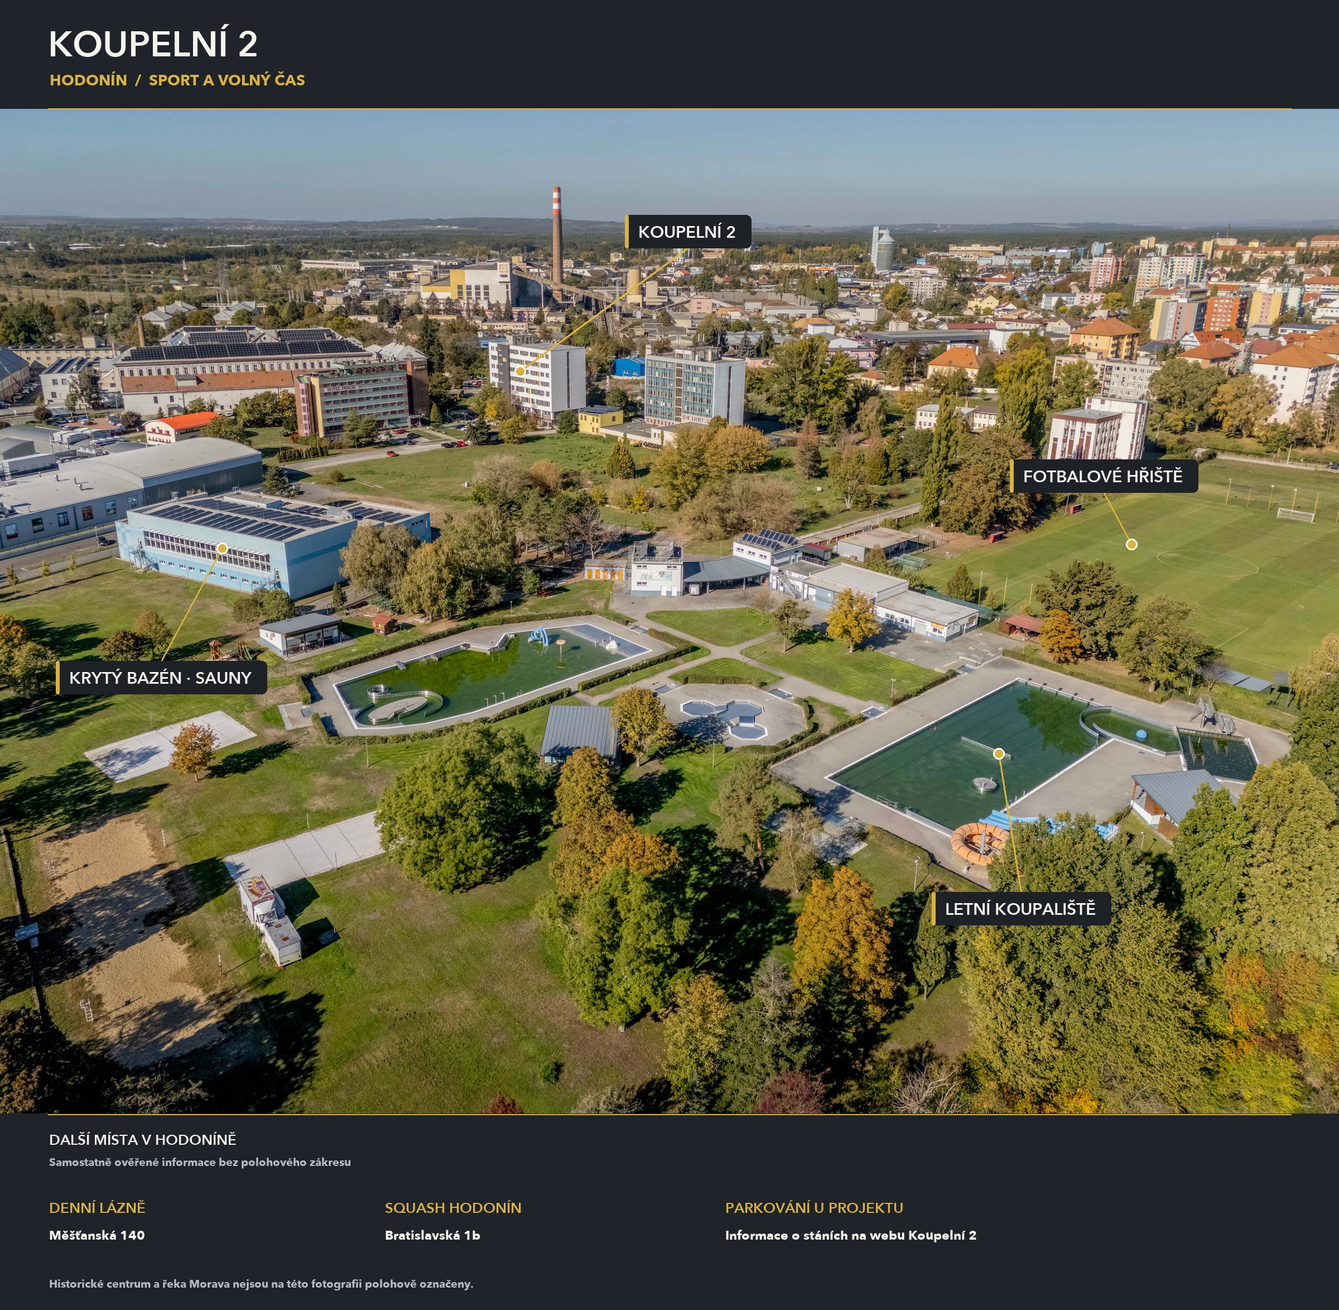
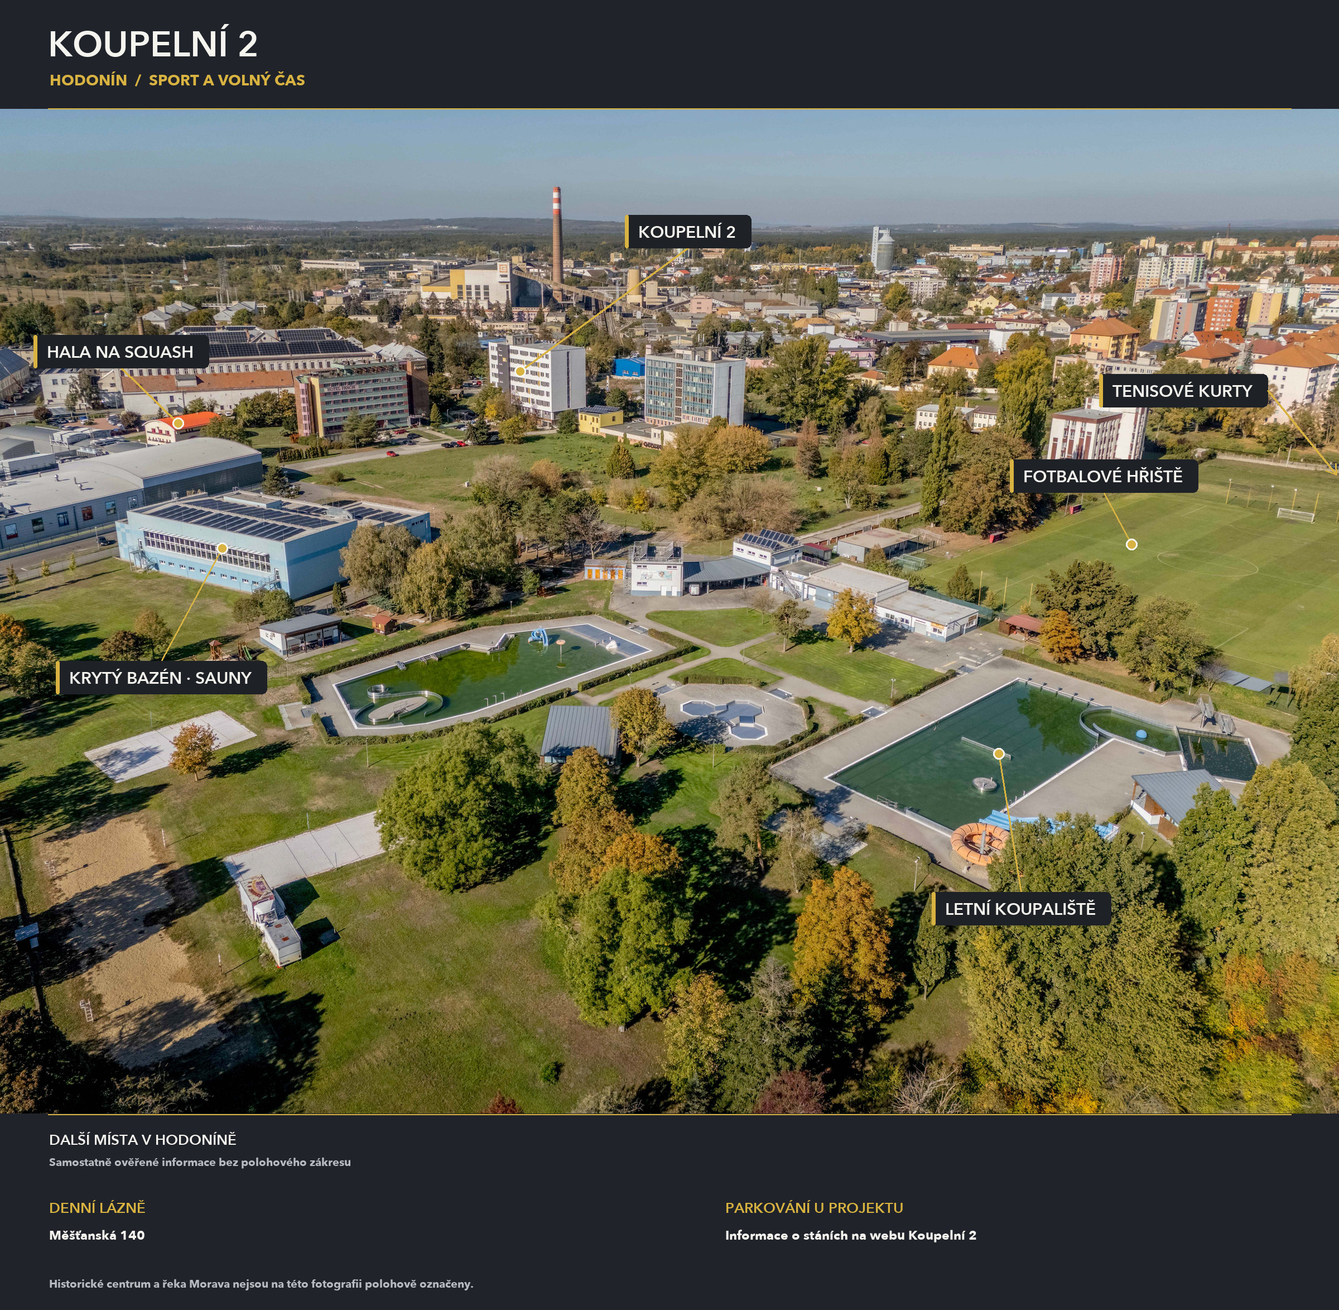
Doplň popisky sportovišť a oprav stavové odkazy v ceníku

diff --git a/predani/web/_cms/site-runtime.js b/predani/web/_cms/site-runtime.js
@@ -40,6 +40,18 @@ document.addEventListener('click',e=>{const a=e.target.closest(imageSelector);if
 })();
 (()=>{
 const base=document.querySelector('meta[name="cms-base"]')?.content||'/web/';
+// Historical WordPress entries sometimes linked to the homepage or a post ID.
+for(const row of document.querySelectorAll('table.cenik tr')){
+ const title=row.cells[0]?.textContent.trim();
+ const link=row.querySelector('td a[href]');
+ if(!link)continue;
+ const url=new URL(link.href);
+ if(!url.searchParams.has('post_type')&&url.pathname!==base&&url.pathname!=='/')continue;
+ const groups=[[/^Sklepní kóje na ([1-7])NP$/,'sk'],[/^Garážové stání ([1-8])$/,'gs'],[/^Stání pro motocykl ([12])$/,'gm'],[/^Stání v hromadné garáži ([1-4])$/,'gh']];
+ const group=groups.find(([pattern])=>pattern.test(title));
+ const slug=group?group[1]+'_0'+title.match(group[0])[1]:({'Kom.j. č. 08':'np_01_09','Kom.j. č. 12':'np_02_17'})[title];
+ if(slug)link.href=base+'flats/'+slug+'/';
+}
 function floor(){const n=location.hash.match(/^#df(\d+)$/)?.[1];if(!n)return;document.querySelectorAll('.floor-blocks .floor').forEach(e=>e.classList.toggle('floor-active',e.dataset.floor===n));document.querySelectorAll('[data-floorid]').forEach(e=>e.classList.toggle('button--active',e.dataset.floorid===n));document.querySelectorAll('.floor-loading').forEach(e=>e.classList.remove('floor-loading'));}
 window.addEventListener('hashchange',floor);floor();
 document.querySelectorAll('[data-href]').forEach(e=>{const raw=e.dataset.href;if(!raw?.startsWith('/pudorysy/'))return;e.setAttribute('tabindex','0');e.setAttribute('role','link');e.setAttribute('aria-label','Zobrazit podlaží '+(e.dataset.np||''));const go=()=>location.assign(base+raw.slice(1));e.onclick=go;e.onkeydown=ev=>{if(ev.key==='Enter')go();};e.onmouseenter=()=>{const box=document.querySelector('.info-floor');if(box)box.style.opacity='1';for(const [key,v] of [['podlazi',e.dataset.np],['free',e.dataset.free],['total',e.dataset.total]]){const el=document.querySelector('[data-name="'+key+'"]');if(el)el.textContent=v||'';}};});
@@ -59,8 +71,11 @@ body.k2-finished #k2-main-content .k2-plan-legend span:before{width:16px;height:
 body.k2-finished #k2-main-content .k2-plan-legend span:nth-child(2):before{background:#db8b4b;border-color:#8c4e1b}
 body.k2-finished #k2-main-content .k2-plan-legend span:nth-child(3):before{background:#46616e;border-color:#294550}
 body .stav-volne,body.k2-finished #k2-main-content .k2-unit-state[data-status="Na prodej"]{background:#f3ce43!important;color:#172d36!important;border:1px solid #9f8123!important}
-body .stav-prodano,body.k2-finished #k2-main-content .k2-unit-state[data-status="Prodáno"]{background:#46616e!important;color:#fff!important;border:1px solid #294550!important}
+body .stav-nedostupne,body .stav-prodano,body.k2-finished #k2-main-content .k2-unit-state[data-status="Prodáno"]{background:#46616e!important;color:#fff!important;border:1px solid #294550!important}
 body .stav-rezervovano,body.k2-finished #k2-main-content .k2-unit-state[data-status="Rezervováno"]{background:#db8b4b!important;color:#231b15!important;border:1px solid #8c4e1b!important}
+body.k2-finished #k2-main-content table.cenik td :is(.stav-volne,.stav-rezervovano,.stav-prodano):has(>a.button){display:inline-flex;padding:0!important}
+body.k2-finished #k2-main-content table.cenik td :is(.stav-volne,.stav-rezervovano,.stav-prodano)>a.button{background:inherit!important;color:inherit!important;border:0!important;box-shadow:none!important}
+body.k2-finished #k2-main-content table.cenik td :is(.stav-volne,.stav-rezervovano,.stav-prodano)>a.button:focus-visible{outline:3px solid #17688c;outline-offset:3px}
 body.k2-finished #k2-main-content .k2-floor-unit-list a[data-unit-status="Na prodej"]{border-left:6px solid #f3ce43}
 body.k2-finished #k2-main-content .k2-floor-unit-list a[data-unit-status="Prodáno"]{border-left:6px solid #46616e}
 body.k2-finished #k2-main-content .k2-floor-unit-list a[data-unit-status="Rezervováno"]{border-left:6px solid #db8b4b}
@@ -73,12 +88,13 @@ body.k2-finished #k2-main-content .k2-floor-unit-list a[data-unit-status="Rezerv
  const endpoint=document.querySelector('meta[name="koupelni-service"]')?.content;if(!endpoint)return;
  const base=document.querySelector('meta[name="cms-base"]')?.content||'/web/';
  const slug=u=>{try{return new URL(u,location.href).pathname.replace(base,'').replace(/^\/+|\/+$/g,'');}catch{return '';}};
- const styleStatus=(e,status)=>{e.textContent=status;e.classList.remove('stav-volne','stav-rezervovano','stav-prodano');e.classList.add(status==='Prodáno'?'stav-prodano':status==='Rezervováno'?'stav-rezervovano':'stav-volne');};
+ const styleStatus=(e,status)=>{const link=e.querySelector('a');(link||e).textContent=status;e.classList.remove('stav-volne','stav-rezervovano','stav-prodano','stav-nedostupne');const state=status.toLocaleLowerCase('cs');e.classList.add(state==='prodáno'?'stav-prodano':state==='dočasně nedostupné'?'stav-nedostupne':state==='rezervováno'?'stav-rezervovano':'stav-volne');};
  document.querySelectorAll('.k2-mortgage form').forEach(f=>f.addEventListener('input',e=>{if(e.isTrusted)f.dataset.userEdited='true';}));
  async function refresh(){try{
-  const r=await fetch(endpoint+'/availability',{cache:'no-store',credentials:'omit',signal:AbortSignal.timeout(10000)});if(!r.ok)return;const {units}=await r.json();if(!Array.isArray(units))return;const map=new Map(units.map(u=>[u.slug,u]));
-  document.querySelectorAll('table.cenik').forEach(table=>{const heads=[...table.querySelectorAll('th')].map(e=>e.textContent.trim()),price=heads.findIndex(t=>t.startsWith('Cena')),status=heads.findIndex(t=>t==='Stav');for(const row of table.querySelectorAll('tr')){const a=row.querySelector('a[href*="/flats/"]'),u=a&&map.get(slug(a.href));if(!u)continue;if(price>=0&&row.cells[price])row.cells[price].textContent=u.price;if(status>=0&&row.cells[status])styleStatus(row.cells[status].querySelector('[class*="stav-"]')||row.cells[status],u.status);}});
-  const current=map.get(slug(location.href));if(current){document.querySelectorAll('.k2-unit-state').forEach(e=>{e.textContent=current.status;e.dataset.status=current.status;});for(const row of document.querySelectorAll('.single-flat tr')){const label=row.cells[0]?.textContent.trim();if(label==='Cena'&&row.cells[1]){const cell=row.cells[1],price=cell.querySelector('span:not(.dph)');if(price)price.textContent=current.price;else{const vat=cell.querySelector('.dph');cell.textContent=current.price;if(vat)cell.append(document.createTextNode(' '),vat);}}if(label==='Stav'&&row.cells[1])styleStatus(row.cells[1].querySelector('[class*="stav-"]')||row.cells[1],current.status);}document.querySelectorAll('.k2-mortgage form').forEach(f=>{if(f.dataset.userEdited)return;const match=current.price.match(/([\d.,\s\u00a0]+)\s*Kč/),amount=/Kč\s*\/\s*m[²2]/i.test(current.price)?0:match?Number(match[1].replace(/[.\s\u00a0]/g,'').replace(',','.')):0;if(amount){f.elements.price.value=amount;f.elements.own.value=Math.round(amount*.2);f.dispatchEvent(new Event('input',{bubbles:true}));}});}
+  const r=await fetch(endpoint+'/availability',{cache:'no-store',credentials:'omit',signal:AbortSignal.timeout(10000)});if(!r.ok)return;const {units,accessories}=await r.json();if(!Array.isArray(units))return;const map=new Map(units.map(u=>[u.slug,u]));
+  document.querySelectorAll('table.cenik').forEach(table=>{const heads=[...table.querySelectorAll('th')].map(e=>e.textContent.trim()),price=heads.findIndex(t=>t.startsWith('Cena')),status=heads.findIndex(t=>t==='Stav'||t==='Status');for(const row of table.querySelectorAll('tr')){const a=row.querySelector('a[href*="/flats/"]'),u=a&&map.get(slug(a.href));if(!u||u.slug.startsWith('flats/sk_')||u.slug==='flats/1462-copy-copy')continue;if(price>=0&&row.cells[price])row.cells[price].textContent=u.price;if(status>=0&&row.cells[status])styleStatus(row.cells[status].querySelector('[class*="stav-"]')||row.cells[status],u.status);}});
+  if(Array.isArray(accessories)){const byCode=new Map(accessories.map(a=>[a.code,a]));for(const row of document.querySelectorAll('tr')){const code=row.cells?.[0]?.textContent.trim(),item=byCode.get(code);if(!item||row.cells.length!==4)continue;const table=row.closest('table');if(!table||table.classList.contains('cenik'))continue;const heads=[...table.querySelectorAll('th')].map(e=>e.textContent.trim());if(!heads.some(h=>h==='Sklepní kóje'||h==='Parkovací místo'))continue;const status=row.cells[2].querySelector('[class*="stav-"]')||row.cells[2].querySelector('span.mce-content-body')||row.cells[2];styleStatus(status,item.status);const price=row.cells[3].querySelector('span.mce-content-body')||row.cells[3];price.textContent=item.price;}}
+  const current=map.get(slug(location.href));if(current&&!current.slug.startsWith('flats/sk_')&&current.slug!=='flats/1462-copy-copy'){document.querySelectorAll('.k2-unit-state').forEach(e=>{e.textContent=current.status;e.dataset.status=current.status;});for(const row of document.querySelectorAll('.single-flat tr')){const label=row.cells[0]?.textContent.trim();if(label==='Cena'&&row.cells[1]){const cell=row.cells[1],price=cell.querySelector('span:not(.dph)');if(price)price.textContent=current.price;else{const vat=cell.querySelector('.dph');cell.textContent=current.price;if(vat)cell.append(document.createTextNode(' '),vat);}}if(label==='Stav'&&row.cells[1])styleStatus(row.cells[1].querySelector('[class*="stav-"]')||row.cells[1],current.status);}document.querySelectorAll('.k2-mortgage form').forEach(f=>{if(f.dataset.userEdited)return;const match=current.price.match(/([\d.,\s\u00a0]+)\s*Kč/),amount=/Kč\s*\/\s*m[²2]/i.test(current.price)?0:match?Number(match[1].replace(/[.\s\u00a0]/g,'').replace(',','.')):0;if(amount){f.elements.price.value=amount;f.elements.own.value=Math.round(amount*.2);f.dispatchEvent(new Event('input',{bubbles:true}));}});}
   const floor=document.querySelector('#cms-floor-data');if(floor){const list=JSON.parse(floor.textContent);for(const u of list){const fresh=map.get(slug(u.url));if(fresh)u.status=fresh.status;}floor.textContent=JSON.stringify(list);document.dispatchEvent(new Event('koupelni:availability'));}
   document.querySelectorAll('.k2-unit-filters select').forEach(s=>s.dispatchEvent(new Event('change')));
  }catch{/* Existing published content remains readable. The seller confirms availability. */}}

diff --git a/lokalita.html b/lokalita.html
@@ -1,2 +1,2 @@
 <!DOCTYPE html>
-<html lang="cs"><head><meta charset="utf-8"/><meta content="width=device-width, initial-scale=1" name="viewport"/><meta content="noindex,nofollow" name="robots"/><title>Lokalita | Koupelní 2 — návrh webu</title><meta content="Návrh aktualizace webu Koupelní 2 v Hodoníně. " name="description"/><link href="assets/site.css?v=20261025-2" rel="stylesheet"/><link href="assets/composition.css?v=20261026-4" rel="stylesheet"/><link href="assets/design.css?v=20261026-fd-final" rel="stylesheet"/></head><body><a class="skip" href="#main">Přejít na obsah</a><header class="header"><a aria-label="Koupelní 2 — úvod" class="brand" href="index.html"><span class="brand-text">KOUPELNÍ <b>2</b><small>HODONÍN</small></span></a><button aria-controls="nav" aria-expanded="false" class="menu-toggle">Menu <span>☰</span></button><nav aria-label="Hlavní navigace" class="nav" id="nav"><a class="" href="index.html">Úvod</a><a class="" href="projekt.html">O projektu</a><a class="" href="jednotky.html">Jednotky</a><a class="" href="galerie.html">Galerie</a><a aria-current="page" class="current" href="lokalita.html">Lokalita</a><a class="" href="standardy.html">Standardy</a><a class="" href="parkovani.html">Parkování</a><a class="" href="faq.html">Otázky</a><a class="" href="kontakt.html">Kontakt</a></nav><a class="header-contact" href="tel:+420720956703">+420 720 956 703 <span>↗</span></a></header><main id="main"><section class="page-top page-top-photo"><div class="container"><p class="eyebrow">LOKALITA</p><h1>Hodonín nablízku.</h1><p>Městské služby, pohyb a sport v okolí Koupelní ulice.</p></div><figure class="page-top-image"><img alt="Skutečný letecký pohled na okolí domu" fetchpriority="high" height="1650" src="assets/img/DJI_20261016113208_0099_D-HDR.jpg?v=20261026-fd-final" width="2200"/><figcaption>Skutečná fotografie · říjen 2026</figcaption></figure></section><section class="section"><div class="container"><p class="eyebrow">OVĚŘENÉ BODY</p><h2>Okolí na jednom snímku</h2><div class="locality-overview"><div><p class="lead">Dům Koupelní 2, krytý bazén se saunami, letní koupaliště i fotbalové hřiště. Prohlédněte si okolí ze skutečného leteckého záběru a najděte si svá místa pro sport i odpočinek.</p><p>Centrum Hodonína, lázně a řeka Morava patří k širšímu kontextu města. Pro orientaci doporučujeme oficiální mapu a osobní návštěvu.</p><div class="actions"><a class="button" href="https://mapy.cz/zakladni?q=Koupelní%202%2C%20Hodonín">Otevřít mapu <span aria-hidden="true">↗</span></a><a class="button button-light" href="kontakt.html">Kontakt na prodejce <span aria-hidden="true">↗</span></a></div></div><figure class="poi-overview"><a href="assets/img/lokalita_poi.jpg?v=20261026-foto5-lokalni" rel="noopener" target="_blank"><img alt="Celý letecký přehled: Koupelní 2, krytý bazén se saunami, fotbalové hřiště a letní koupaliště" height="1760" loading="lazy" src="assets/img/lokalita_poi.jpg?v=20261026-fd-final" width="1800"/></a><figcaption>Celý snímek včetně všech popisků. Kliknutím otevřete větší zobrazení.</figcaption></figure></div></div></section></main><footer class="footer"><div class="container footer-grid"><div><div class="footer-brand">KOUPELNÍ <em>2</em></div><p>Ubytovací a komerční jednotky<br/>v Hodoníně.</p></div><div><strong>Prozkoumat</strong><a href="jednotky.html">Jednotky</a><a href="galerie.html">Galerie</a><a href="lokalita.html">Lokalita</a></div><div><strong>Kontakt</strong><a href="tel:+420720956703">+420 720 956 703</a><a href="mailto:hazukova@hireal.cz">hazukova@hireal.cz</a><span>Ing. Jarmila Hazuková · HiREAL</span></div><div><strong>Informace</strong><a href="https://koupelni.hireal.cz/" rel="noopener" target="_blank">Aktuální oficiální web ↗</a><a href="navrh.html">O tomto návrhu</a><span>Obsah nabídky ověřte u prodejce.</span></div></div><div class="footer-bottom container"><span>© Koupelní 2 · návrh aktualizace</span><span>Fotografie skutečného stavu, pokud není uvedeno jinak.</span></div></footer><div class="proposal-badge">Návrh aktualizace webu · k připomínkám</div><script defer="" src="assets/site.js?v=20261026-design4b"></script></body></html>
+<html lang="cs"><head><meta charset="utf-8"/><meta content="width=device-width, initial-scale=1" name="viewport"/><meta content="noindex,nofollow" name="robots"/><title>Lokalita | Koupelní 2 — návrh webu</title><meta content="Návrh aktualizace webu Koupelní 2 v Hodoníně. " name="description"/><link href="assets/site.css?v=20261025-2" rel="stylesheet"/><link href="assets/composition.css?v=20261026-4" rel="stylesheet"/><link href="assets/design.css?v=20261026-fd-final" rel="stylesheet"/></head><body><a class="skip" href="#main">Přejít na obsah</a><header class="header"><a aria-label="Koupelní 2 — úvod" class="brand" href="index.html"><span class="brand-text">KOUPELNÍ <b>2</b><small>HODONÍN</small></span></a><button aria-controls="nav" aria-expanded="false" class="menu-toggle">Menu <span>☰</span></button><nav aria-label="Hlavní navigace" class="nav" id="nav"><a class="" href="index.html">Úvod</a><a class="" href="projekt.html">O projektu</a><a class="" href="jednotky.html">Jednotky</a><a class="" href="galerie.html">Galerie</a><a aria-current="page" class="current" href="lokalita.html">Lokalita</a><a class="" href="standardy.html">Standardy</a><a class="" href="parkovani.html">Parkování</a><a class="" href="faq.html">Otázky</a><a class="" href="kontakt.html">Kontakt</a></nav><a class="header-contact" href="tel:+420720956703">+420 720 956 703 <span>↗</span></a></header><main id="main"><section class="page-top page-top-photo"><div class="container"><p class="eyebrow">LOKALITA</p><h1>Hodonín nablízku.</h1><p>Městské služby, pohyb a sport v okolí Koupelní ulice.</p></div><figure class="page-top-image"><img alt="Skutečný letecký pohled na okolí domu" fetchpriority="high" height="1650" src="assets/img/DJI_20261016113208_0099_D-HDR.jpg?v=20261026-fd-final" width="2200"/><figcaption>Skutečná fotografie · říjen 2026</figcaption></figure></section><section class="section"><div class="container"><p class="eyebrow">OVĚŘENÉ BODY</p><h2>Okolí na jednom snímku</h2><div class="locality-overview"><div><p class="lead">Dům Koupelní 2, hala na squash, krytý bazén se saunami, letní koupaliště i fotbalové hřiště. Tenisové kurty ukazuje směrovka k pravému okraji snímku. Prohlédněte si okolí ze skutečného leteckého záběru a najděte si svá místa pro sport i odpočinek.</p><p>Centrum Hodonína, lázně a řeka Morava patří k širšímu kontextu města. Pro orientaci doporučujeme oficiální mapu a osobní návštěvu.</p><div class="actions"><a class="button" href="https://mapy.cz/zakladni?q=Koupelní%202%2C%20Hodonín">Otevřít mapu <span aria-hidden="true">↗</span></a><a class="button button-light" href="kontakt.html">Kontakt na prodejce <span aria-hidden="true">↗</span></a></div></div><figure class="poi-overview"><a href="assets/img/lokalita_poi-20261106.jpg" rel="noopener" target="_blank"><img alt="Celý letecký přehled: Koupelní 2, squashová hala, krytý bazén se saunami, fotbalové hřiště, letní koupaliště a směr k tenisovým kurtům" height="2151" loading="lazy" src="assets/img/lokalita_poi-20261106.jpg" width="2200"/></a><figcaption>Celý snímek včetně všech popisků. Kliknutím otevřete větší zobrazení.</figcaption></figure></div></div></section></main><footer class="footer"><div class="container footer-grid"><div><div class="footer-brand">KOUPELNÍ <em>2</em></div><p>Ubytovací a komerční jednotky<br/>v Hodoníně.</p></div><div><strong>Prozkoumat</strong><a href="jednotky.html">Jednotky</a><a href="galerie.html">Galerie</a><a href="lokalita.html">Lokalita</a></div><div><strong>Kontakt</strong><a href="tel:+420720956703">+420 720 956 703</a><a href="mailto:hazukova@hireal.cz">hazukova@hireal.cz</a><span>Ing. Jarmila Hazuková · HiREAL</span></div><div><strong>Informace</strong><a href="https://koupelni.hireal.cz/" rel="noopener" target="_blank">Aktuální oficiální web ↗</a><a href="navrh.html">O tomto návrhu</a><span>Obsah nabídky ověřte u prodejce.</span></div></div><div class="footer-bottom container"><span>© Koupelní 2 · návrh aktualizace</span><span>Fotografie skutečného stavu, pokud není uvedeno jinak.</span></div></footer><div class="proposal-badge">Návrh aktualizace webu · k připomínkám</div><script defer="" src="assets/site.js?v=20261026-design4b"></script></body></html>

diff --git a/predani/web/lokalita/index.html b/predani/web/lokalita/index.html
@@ -117,7 +117,7 @@ ul.filebird-block-filebird-gallery{margin:auto!important;padding:0!important;wid
 <header class="k2-page-header"><div class="k2-container"><p class="k2-eyebrow">Koupelní 2 · Hodonín</p><h1>Lokalita</h1></div><figure><img alt="Zeleň a vodní plocha v okolí domu" fetchpriority="high" style="object-position:50% 58%" decoding="async" loading="eager" src="/koupelni2-navrh/predani/web/media/optimized/4a428fbc584361-960.webp" srcset="/koupelni2-navrh/predani/web/media/optimized/4a428fbc584361-480.webp 480w, /koupelni2-navrh/predani/web/media/optimized/4a428fbc584361-960.webp 960w, /koupelni2-navrh/predani/web/media/optimized/4a428fbc584361-1600.webp 1600w, /koupelni2-navrh/predani/web/media/optimized/4a428fbc584361-2200.webp 2200w" width="2400" height="1800" data-original-src="https://frantisekdron.github.io/koupelni2-navrh/predani/web/wp-content/themes/pixelvent/img/reality-2026/DJI_20261016112844_0091_D-HDR.jpg" data-full-src="/koupelni2-navrh/predani/web/media/optimized/4a428fbc584361-2200.webp" sizes="(max-width: 767px) 100vw, (max-width: 1200px) 60vw, 800px"><figcaption>Skutečná fotografie · říjen 2026</figcaption></figure></header>
 <div class="master-padding">
 <div class="master-margin">
-<div class="container-width-content" data-add-lightbox=""><figure class="k2-locality-photo"><a data-lightbox="add-lightbox" href="/koupelni2-navrh/predani/web/media/optimized/a8ae5f8c37f3ec-2200.webp"><img alt="Koupelní 2 a nejbližší sportovní vybavenost, letecká fotografie s popisky" decoding="async" loading="lazy" src="/koupelni2-navrh/predani/web/media/optimized/a8ae5f8c37f3ec-960.webp" srcset="/koupelni2-navrh/predani/web/media/optimized/a8ae5f8c37f3ec-480.webp 480w, /koupelni2-navrh/predani/web/media/optimized/a8ae5f8c37f3ec-960.webp 960w, /koupelni2-navrh/predani/web/media/optimized/a8ae5f8c37f3ec-1600.webp 1600w, /koupelni2-navrh/predani/web/media/optimized/a8ae5f8c37f3ec-2200.webp 2200w" width="2400" height="2347" data-original-src="https://frantisekdron.github.io/koupelni2-navrh/predani/web/wp-content/themes/pixelvent/img/reality-2026/okoli-s-popisky.jpg" data-full-src="/koupelni2-navrh/predani/web/media/optimized/a8ae5f8c37f3ec-2200.webp" sizes="(max-width: 767px) 100vw, 720px"></a><figcaption>Dům a sportovní vybavenost v jeho okolí · skutečná fotografie</figcaption></figure>
+<div class="container-width-content" data-add-lightbox=""><figure class="k2-locality-photo"><a data-lightbox="add-lightbox" href="/koupelni2-navrh/predani/web/media/optimized/koupelni2-okoli-poi-20261106-2200.webp"><img alt="Koupelní 2, squashová hala a sportoviště, letecká fotografie s popisky a směrem k tenisovým kurtům" decoding="async" loading="lazy" src="/koupelni2-navrh/predani/web/media/optimized/koupelni2-okoli-poi-20261106-960.webp" srcset="/koupelni2-navrh/predani/web/media/optimized/koupelni2-okoli-poi-20261106-480.webp 480w, /koupelni2-navrh/predani/web/media/optimized/koupelni2-okoli-poi-20261106-960.webp 960w, /koupelni2-navrh/predani/web/media/optimized/koupelni2-okoli-poi-20261106-1600.webp 1600w, /koupelni2-navrh/predani/web/media/optimized/koupelni2-okoli-poi-20261106-2200.webp 2200w" width="2400" height="2347" data-original-src="https://frantisekdron.github.io/koupelni2-navrh/predani/web/wp-content/themes/pixelvent/img/reality-2026/okoli-s-popisky.jpg" data-full-src="/koupelni2-navrh/predani/web/media/optimized/koupelni2-okoli-poi-20261106-2200.webp" sizes="(max-width: 767px) 100vw, 720px"></a><figcaption>Dům a sportovní vybavenost v jeho okolí · skutečná fotografie</figcaption></figure>
 <div aria-hidden="true" class="wp-block-spacer" style="height:33px"></div>
 <h3 class="wp-block-heading"><strong>Proč si vybrat bydlení v tomto polyfunkčním domě?</strong></h3>
 <div class="wp-block-group is-vertical is-content-justification-left is-layout-flex wp-container-core-group-is-layout-adc7e0b5 wp-block-group-is-layout-flex">
